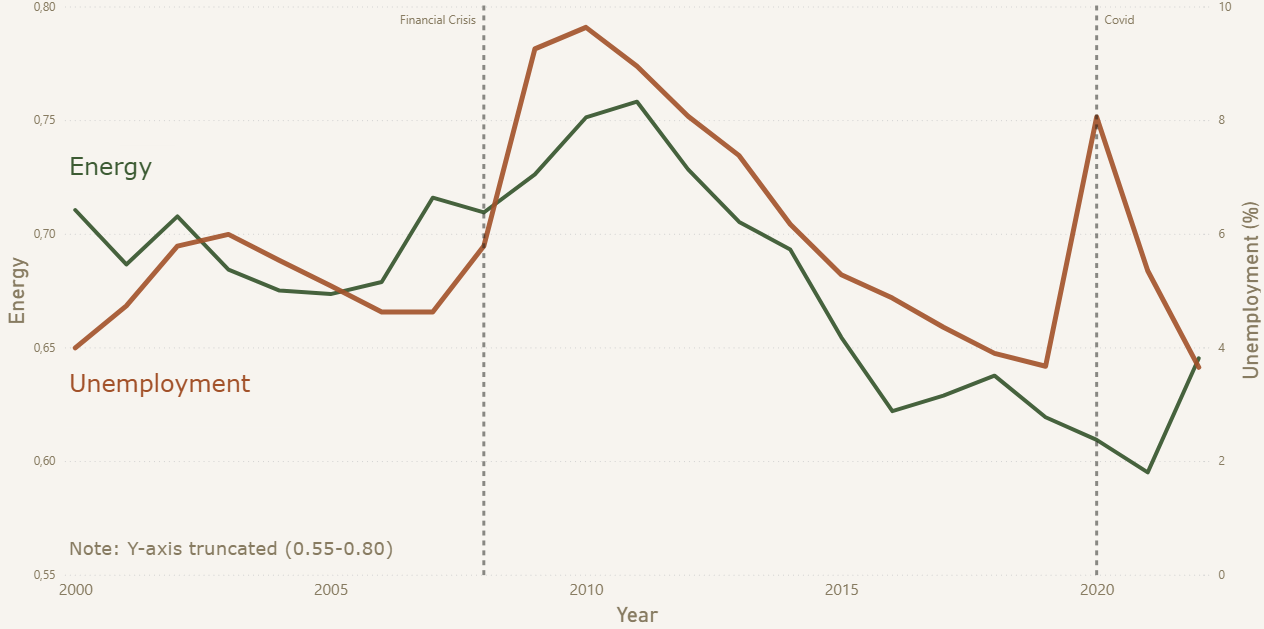
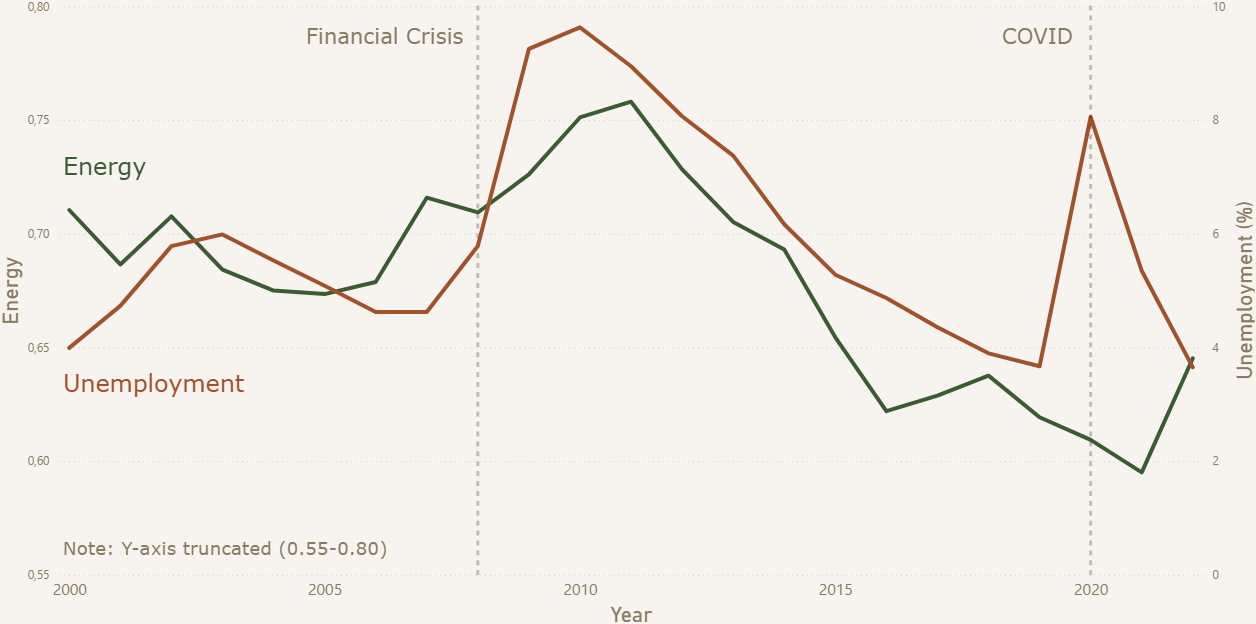
Update portfolio website

diff --git a/index.html b/index.html
@@ -6,7 +6,7 @@
   <title>Enes Adem</title>
   <meta
     name="description"
-    content="Portfolio of Enes Baki Adem, a junior data analyst exploring economics, culture, technology, and society through data storytelling."
+    content="Portfolio of Enes Adem, a junior data analyst exploring economics, culture, technology, and society through data storytelling."
   />
 
   <link rel="preconnect" href="https://fonts.googleapis.com" />
@@ -22,7 +22,7 @@
 <body>
 
   <header class="topbar">
-    <a href="#top" class="topbar__mark">Enes Baki Adem</a>
+    <a href="#top" class="topbar__mark">Enes Adem</a>
     <nav class="topbar__nav" aria-label="Main navigation">
       <a href="#about">About</a>
       <a href="#work">Projects</a>
@@ -40,15 +40,14 @@
         <p class="section-label">
           <span class="section-label__num">01</span>
           <span class="section-label__divider"></span>
-          <span>Business Intelligence &amp; Data Analytics</span>
+          <span>Exploring society through data</span>
         </p>
       </div>
 
       <div class="hero__inner">
         <h1 class="hero__title">
           Enes<br />
-          <em>Baki</em><br />
-          Adem
+          <em>Adem</em>
         </h1>
 
         <p class="hero__tagline">
@@ -142,20 +141,6 @@
           </div>
         </li>
 
-        <li class="project">
-          <div class="project__media">
-            <span class="project__media-num" aria-hidden="true">04</span>
-          </div>
-          <div class="project__content">
-            <h3 class="project__title">Fuel Tax Analysis</h3>
-            <p class="project__question">Do tax cuts reach consumers or disappear into the market?</p>
-            <a class="project__link" href="https://github.com/enesbakiadem/germany-fuel-tax-analysis" target="_blank" rel="noopener">
-              View project
-              <span class="arrow" aria-hidden="true">&rarr;</span>
-            </a>
-          </div>
-        </li>
-
       </ul>
     </section>
 
@@ -173,7 +158,7 @@
       <div class="connect__grid">
         <h2 class="connect__heading">
           Let&rsquo;s explore <em>ideas</em><br />
-          through data.
+          through data!
         </h2>
 
         <ul class="connect__links">
@@ -202,7 +187,7 @@
   </main>
 
   <footer class="footer">
-    <span>&copy; 2026 Enes Baki Adem</span>
+    <span>&copy; 2026 Enes Adem</span>
     <span>Data analysis & visual storytelling</span>
     <a href="#top">Back to top &uarr;</a>
   </footer>

diff --git a/style.css b/style.css
@@ -1,5 +1,5 @@
-/* =============================================================
-   Mid-Century Modern Portfolio — single stylesheet
+/* =============================================================
+   Mid-Century Modern Portfolio â€” single stylesheet
    ============================================================= */
 
 :root {
@@ -113,7 +113,7 @@ em { font-style: italic; }
   }
 }
 
-/* ---------- Section label (01 — Hello) ---------- */
+/* ---------- Section label (01 â€” Hello) ---------- */
 .section-label {
   display: flex;
   align-items: center;
@@ -137,7 +137,7 @@ em { font-style: italic; }
 }
 
 /* =============================================================
-   HERO  —  full-bleed, 100vw × 100vh editorial grid
+   HERO  â€”  full-bleed, 100vw Ã— 100vh editorial grid
    ============================================================= */
 .hero {
   position: relative;
@@ -271,7 +271,7 @@ em { font-style: italic; }
   box-shadow: 0 0 0 4px rgba(46, 92, 46, 0.18);
 }
 
-/* Decorative shapes — scattered to fill the canvas */
+/* Decorative shapes â€” scattered to fill the canvas */
 .circle {
   position: absolute;
   border-radius: 50%;
@@ -283,7 +283,7 @@ em { font-style: italic; }
   width: clamp(18rem, 34vw, 36rem);
   aspect-ratio: 1;
   right: clamp(-5rem, -3vw, -1rem);
-  top: 50%;
+  top: 59%;
   transform: translateY(-52%);
   opacity: 0.95;
 }
@@ -292,7 +292,7 @@ em { font-style: italic; }
   width: clamp(5rem, 8vw, 8rem);
   aspect-ratio: 1;
   right: clamp(10rem, 22vw, 26rem);
-  top: 14%;
+  top: 10%;
   opacity: 0.85;
 }
 
@@ -380,7 +380,7 @@ em { font-style: italic; }
 }
 
 /* =============================================================
-   WORK  —  two-column magazine spread, alternating sides
+   WORK  â€”  two-column magazine spread, alternating sides
    ============================================================= */
 .work {
   position: relative;
@@ -664,3 +664,4 @@ button:focus-visible {
     scroll-behavior: auto !important;
   }
 }
+